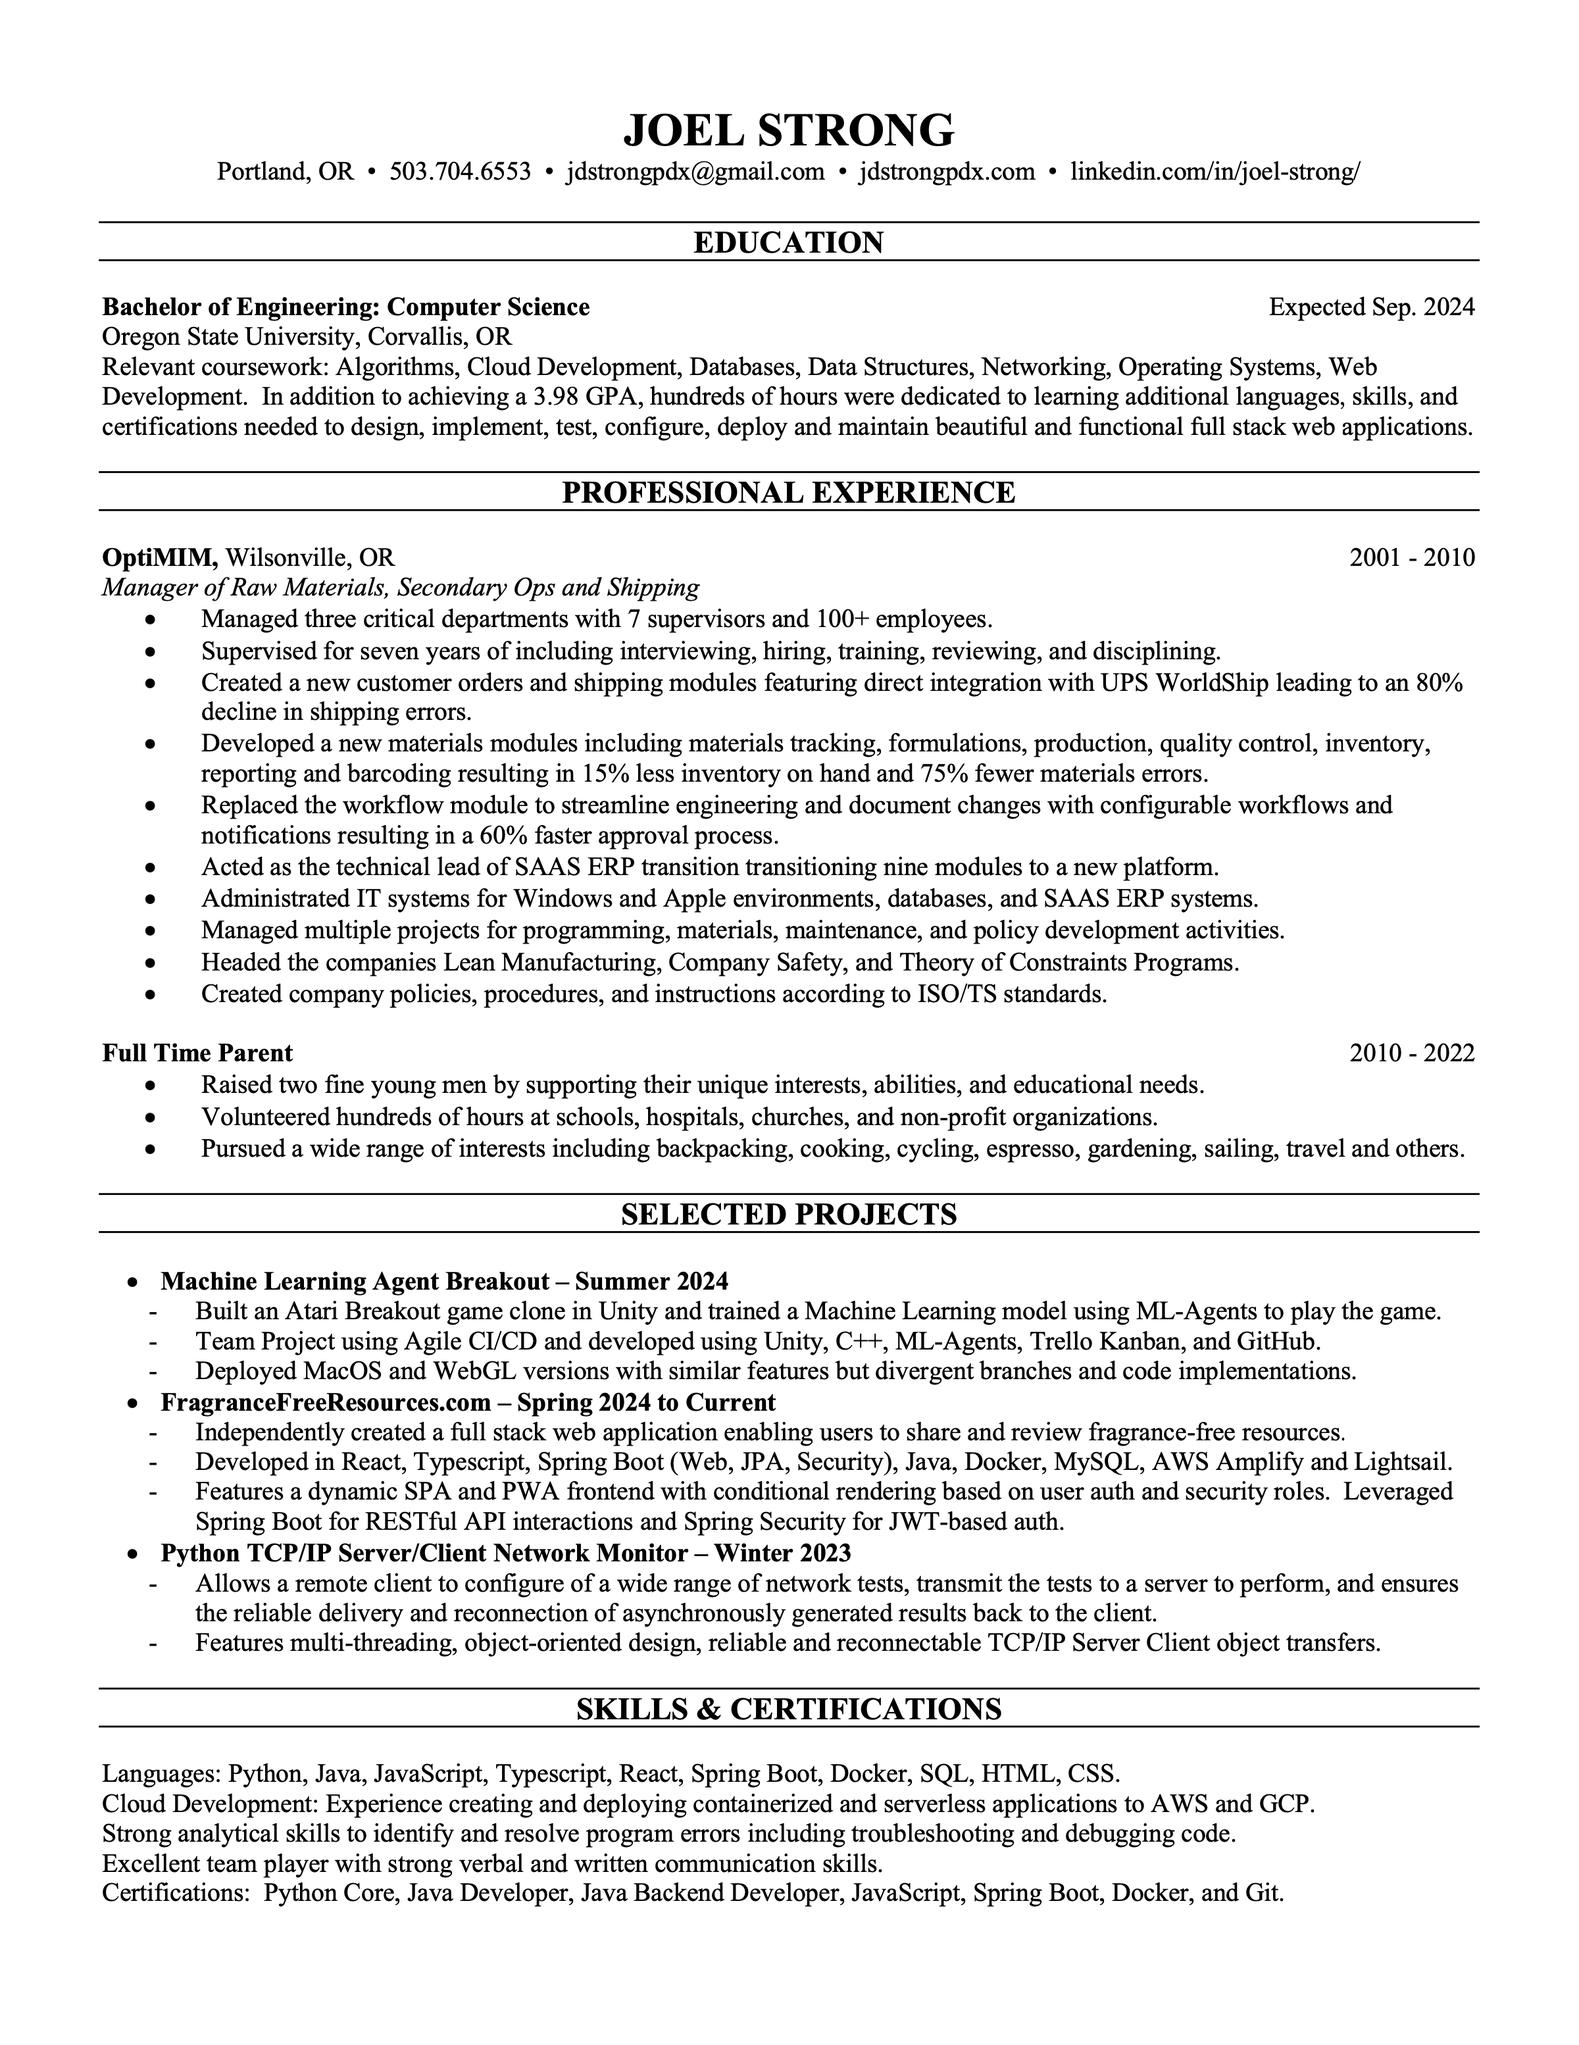
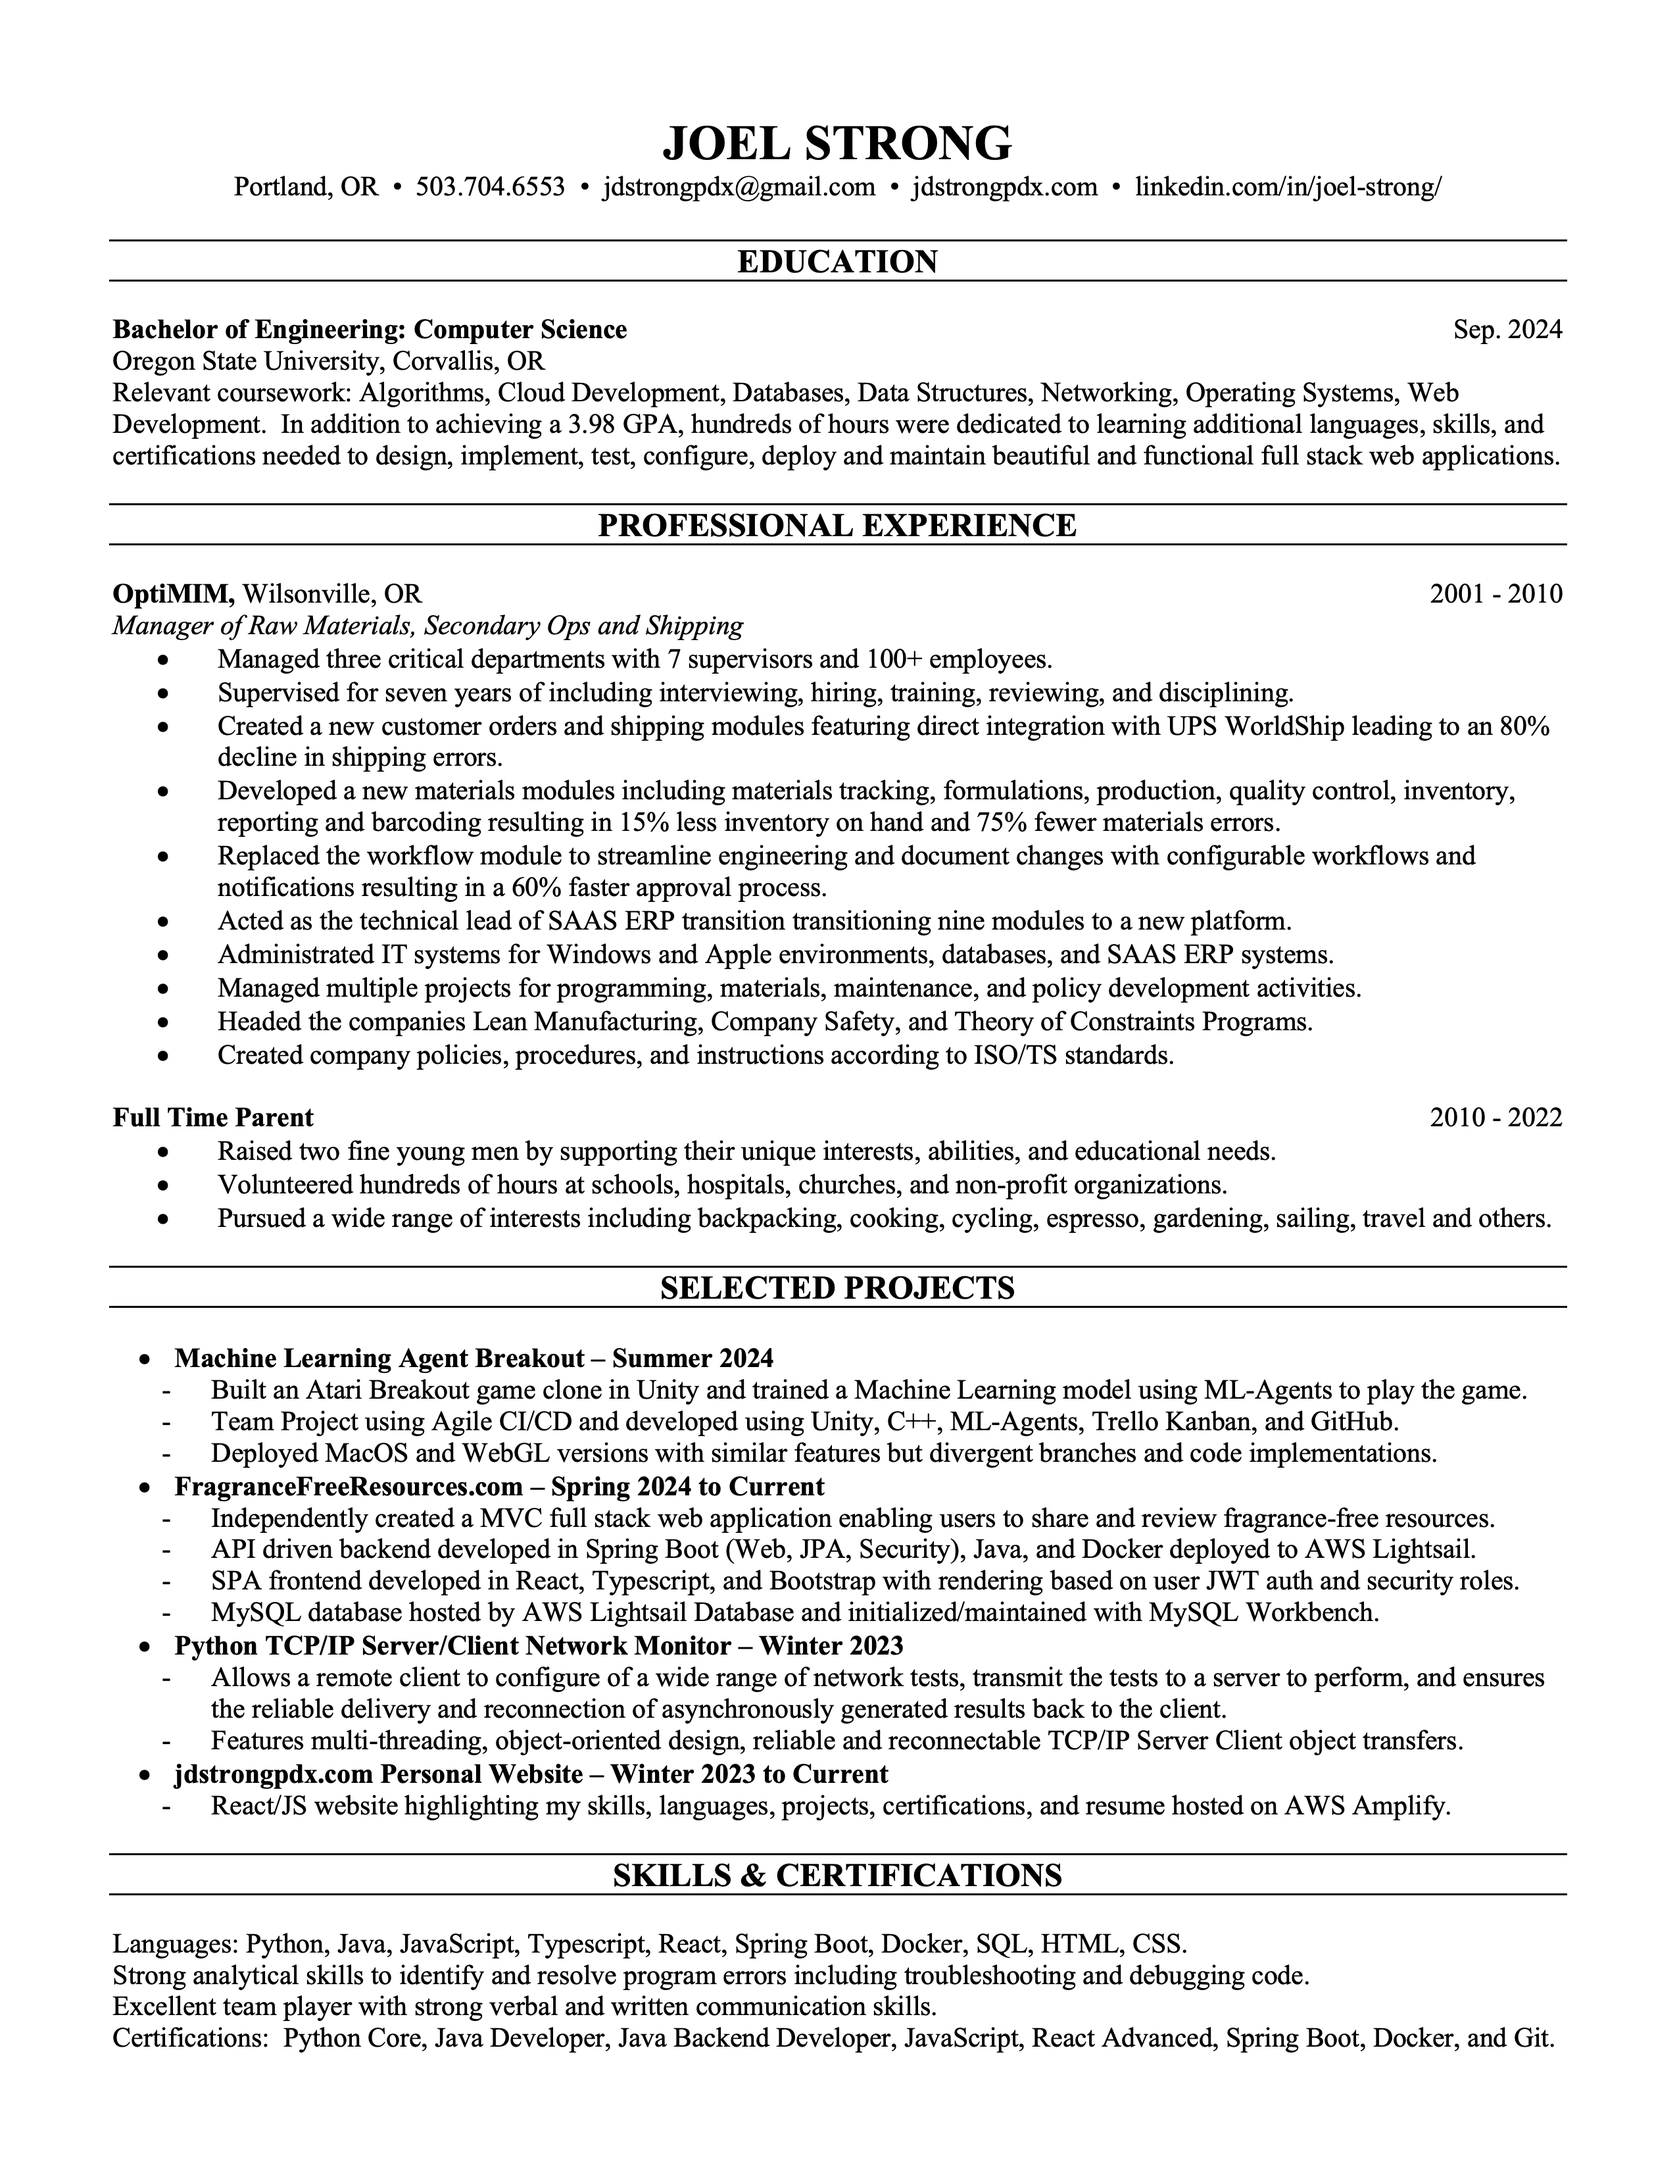
Updated React Certification and Resume.

diff --git a/src/components/Certifications.js b/src/components/Certifications.js
@@ -6,13 +6,16 @@ function Certifications() {
 
             <div className="project">
                 <h3>Certifications:</h3>
-                <p>JetBrains Academy partners with Hyperskill.org to teach and certify different programming skills. In
-                    an effort to gain experience and learn projects beyond the scope of my school courses, I have spent
-                    hundreds of hours learning new content and coding over 30 projects in different languages. These
-                    lessons and projects have been a great learning tool to build upon for larger projects and other
-                    certifications in the future. </p>
 
                 <div className='skillsParent'>
+
+                    <div className='skillsChildWide'>
+                        <a href="https://www.coursera.org/account/accomplishments/certificate/F2HMGSIQPOW6"
+                           target="https://www.coursera.org/account/accomplishments/certificate/F2HMGSIQPOW6">
+                            <img width="410" alt="React Basics by Meta Certification" border="0" align="center"
+                                 src="./certifications/ReactBasic.png"/>
+                        </a><p><strong>Meta React Basics</strong></p>
+                    </div>
 
                     <div className='skillsChild'>
                         <a href="https://hyperskill.org/certificates/142107e4-68cd-4d83-bd0c-1d53b085e767.pdf"

diff --git a/src/pages/HomePage.js b/src/pages/HomePage.js
@@ -18,9 +18,24 @@ function HomePage() {
                     stack web applications. Please take a look at my Resume page for my resume and a list of my
                     certifications, and my Portfolio page for examples of my Projects and work.</h4>
                 <div className="centered">
-                    <button><FaLaptopCode/>&ensp;<Link to="/PortfolioPage">Portfolio</Link></button>
+                    <button><FaLaptopCode/>&ensp;
+                        <Link
+                        to="/PortfolioPage"
+                        style={{ color: 'white', textDecoration: 'none' }}
+                    >
+                        Portfolio
+                    </Link>
+                    </button>
                     &emsp;
-                    <button className='styledButton'><IoDocument/>&ensp;<Link to="/ResumePage">Resume</Link></button>
+                    <button className='styledButton'>
+                        <IoDocument/>&ensp;
+                        <Link
+                            to="/ResumePage"
+                            style={{ color: 'white', textDecoration: 'none' }}
+                        >
+                            Resume
+                        </Link>
+                    </button>
                 </div>
             </article>
 

diff --git a/src/App.css b/src/App.css
@@ -524,6 +524,12 @@ i {
    padding: 10px 10px 10px 10px;
 }
 
+.skillsChildWide {
+  width: 500px;
+  height: auto;
+  padding: 10px 10px 10px 10px;
+}
+
 
 .right { 
   float: right;
